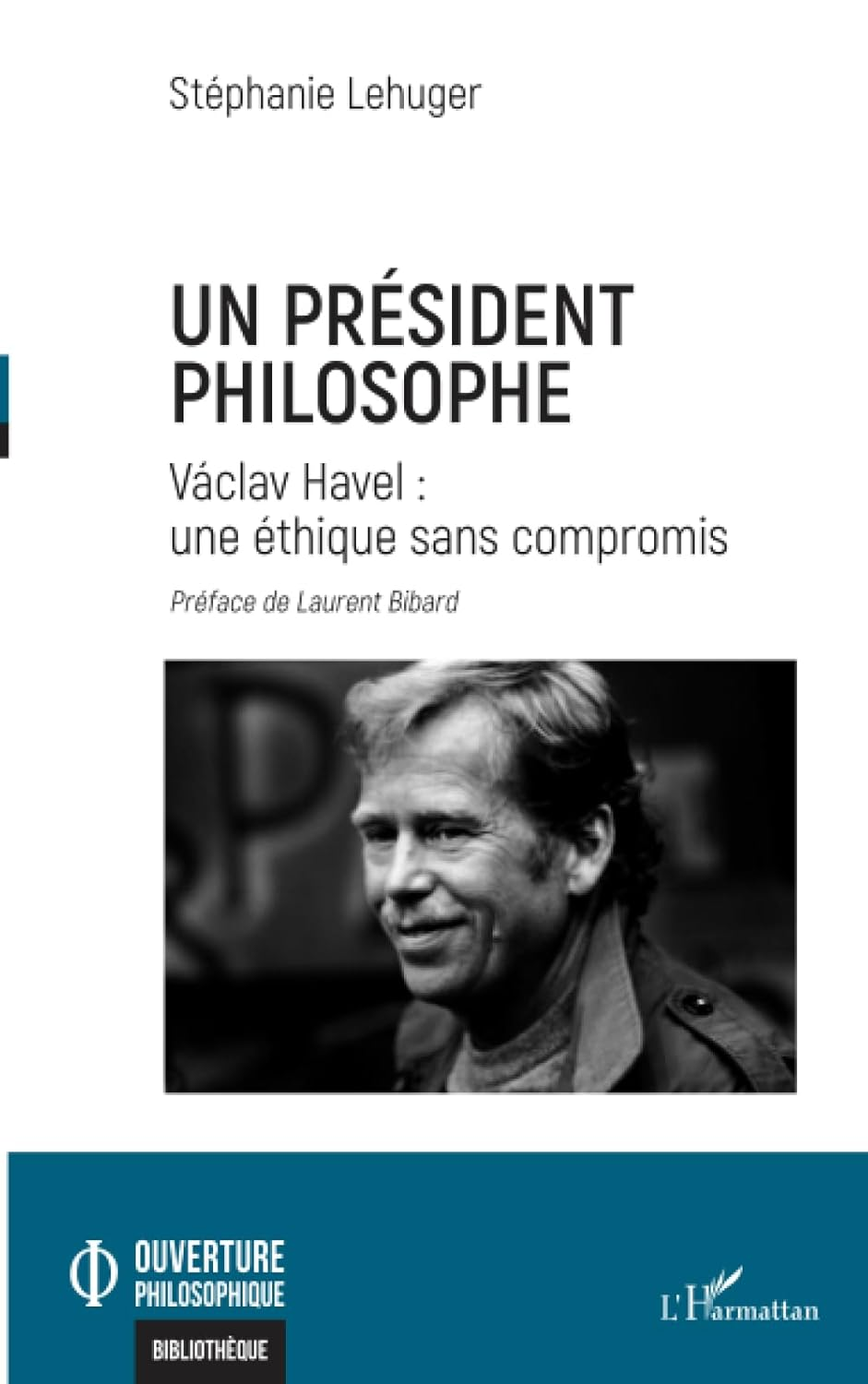
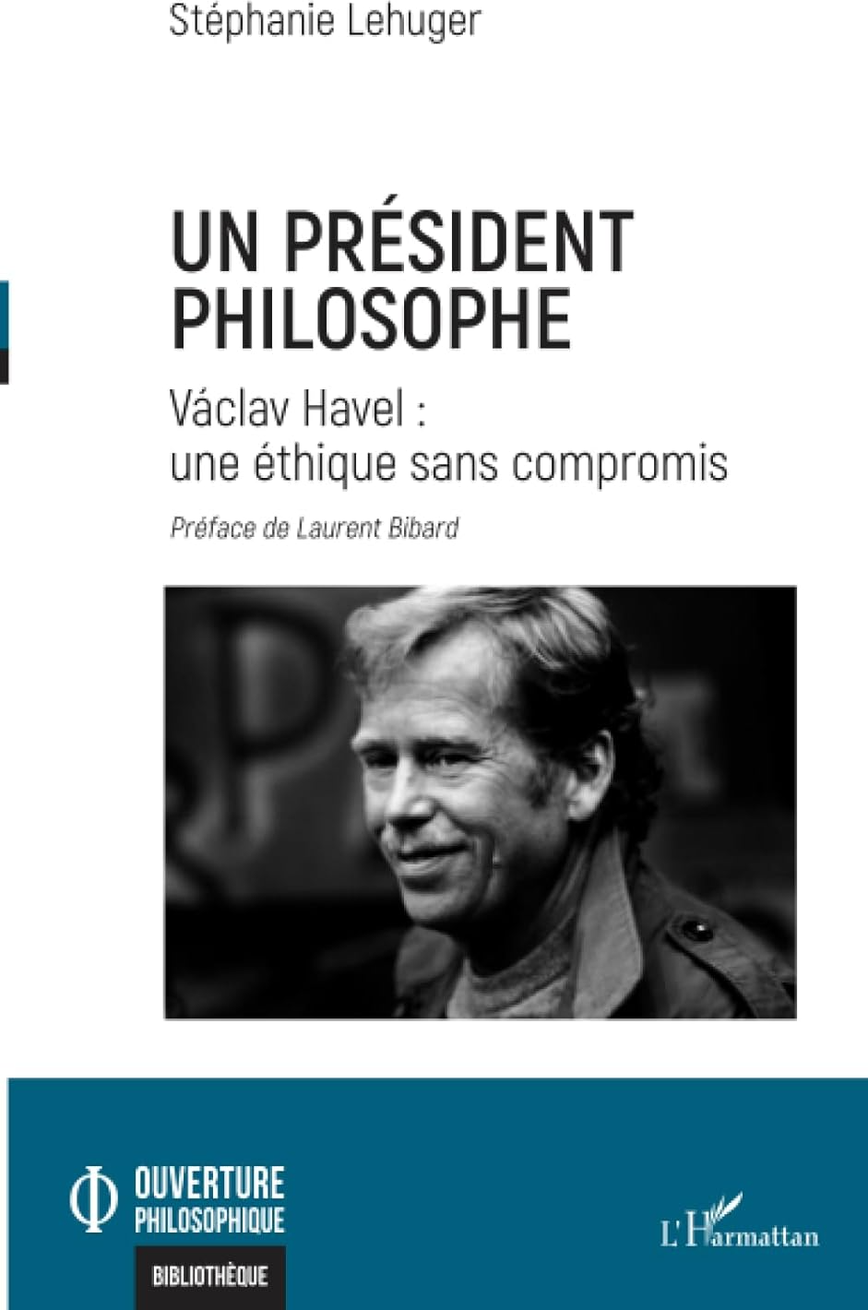
Update website content and assets

diff --git a/index.html b/index.html
@@ -87,16 +87,14 @@
       <!-- hero -->
       <div class="r-hero r-tall" style="display:grid; grid-template-columns:minmax(0,1.45fr) minmax(0,1fr); align-items:stretch; min-height:660px; background:#FBEBE0">
         <div class="r-pad" style="padding:58px 44px 54px 56px; display:flex; flex-direction:column; gap:22px; justify-content:center">
-          <div style="display:inline-flex; align-self:flex-start; align-items:stretch; border-radius:12px; overflow:hidden; background:#13383B">
-            <span style="width:5px; background:#B85417; flex:none"></span>
-            <span style="display:flex; flex-direction:column; gap:4px; padding:11px 20px">
-              <span style="font-size:10px; font-weight:700; letter-spacing:.22em; text-transform:uppercase; color:#E39A6B">Women in AI Ethics</span>
-              <span style="font-family:'Plus Jakarta Sans'; font-weight:800; font-size:15px; letter-spacing:-.01em; color:#FFFFFF">Named One of 100 Brilliant Women in AI Ethics</span>
-            </span>
+          <div style="display:flex; align-items:center; gap:12px; align-self:flex-start">
+            <img src="assets/laurel-left.png" alt="" style="height:66px; width:auto; flex:none">
+            <span style="font-family:'Plus Jakarta Sans'; font-weight:800; font-size:15.5px; line-height:1.3; letter-spacing:-.01em; color:#13383B; text-align:center; max-width:14em">Named among the 100 Brilliant Women in AI Ethics</span>
+            <img src="assets/laurel-right.png" alt="" style="height:66px; width:auto; flex:none">
           </div>
           <h1 class="r-h1" style="margin:0; font-family:'Plus Jakarta Sans'; font-weight:800; font-size:68px; line-height:.96; letter-spacing:-.035em; color:#13383B">I build AI for social impact — and I shape the ethics behind it.</h1>
           <p style="margin:0; font-family:'Plus Jakarta Sans'; font-weight:700; font-size:23px; line-height:1.32; letter-spacing:-.015em; color:#13383B; opacity:.82; max-width:26em; text-wrap:balance">Founding-team member at four startups, published philosopher, and keynote speaker.</p>
-          <p style="margin:0; font-size:18px; line-height:1.6; color:#3D6467; max-width:38em; text-wrap:pretty">A decade launching and scaling AI in high-growth tech — from AI-powered public services at Bayes Impact to Rogervoice's US launch, where AI captions calls in real time so deaf and hard-of-hearing people can use the phone like anyone else.</p>
+          <p style="margin:0; font-size:18px; line-height:1.6; color:#3D6467; max-width:38em; text-wrap:pretty">A decade launching and scaling AI in high-growth tech — most recently Rogervoice's US launch, where AI captions calls in real time so deaf and hard-of-hearing people can use the phone like anyone else.</p>
           <div style="display:flex; gap:10px; flex-wrap:wrap">
             <a class="h2" href="https://podcasts.apple.com/us/podcast/the-french-philosopher/id1543657106" target="_blank" rel="noopener" style="display:flex; align-items:center; justify-content:center; height:54px; padding:0 32px; border-radius:100px; background:#13383B; color:#FBEBE0; font-size:14px; font-weight:700; letter-spacing:.12em; text-transform:uppercase; text-decoration:none; box-shadow:0 2px 8px rgba(19,56,59,.18)">Follow the podcast</a>
             <a class="h3" href="https://www.linkedin.com/newsletters/the-french-philosopher-7216970073071104001/" target="_blank" rel="noopener" style="display:flex; align-items:center; justify-content:center; height:54px; padding:0 28px; border-radius:100px; border:1.5px solid rgba(19,56,59,.35); color:#13383B; font-size:14px; font-weight:700; letter-spacing:.12em; text-transform:uppercase; text-decoration:none">Subscribe to the newsletter</a>
@@ -110,16 +108,16 @@
       <!-- credential band -->
       <div style="display:flex; align-items:stretch; background:#FAFBFC; border-bottom:1px solid #DCE2E4">
         <div style="flex:1; display:flex; flex-wrap:wrap; align-items:center; justify-content:center; gap:20px 40px; padding:26px 44px">
-          <img src="./assets/logos/un.svg" alt="United Nations" style="height:50px; width:auto; max-width:170px; object-fit:contain; filter:grayscale(1) brightness(.42) contrast(1.25); mix-blend-mode:multiply; opacity:.82">
-          <img src="./assets/logos/ec.svg" alt="European Commission" style="height:60px; width:auto; max-width:170px; object-fit:contain; filter:grayscale(1) brightness(.42) contrast(1.25); mix-blend-mode:multiply; opacity:.82">
+          <img src="./assets/logos/un.png" alt="United Nations" style="height:58px; width:auto; max-width:170px; object-fit:contain; filter:grayscale(1) brightness(.42) contrast(1.25); mix-blend-mode:multiply; opacity:.82">
+          <img src="./assets/logos/ec.svg" alt="European Commission" style="height:76px; width:auto; max-width:170px; object-fit:contain; filter:grayscale(1) brightness(.42) contrast(1.25); mix-blend-mode:multiply; opacity:.82">
           <img src="./assets/logos/wfp.png" alt="World Food Programme" style="height:66px; width:auto; max-width:170px; object-fit:contain; filter:grayscale(1) brightness(.42) contrast(1.25); mix-blend-mode:multiply; opacity:.82">
           <img src="./assets/logos/wharton-trim.png" alt="The Wharton School, University of Pennsylvania" style="height:34px; width:auto; max-width:170px; object-fit:contain; filter:grayscale(1) brightness(.42) contrast(1.25); mix-blend-mode:multiply; opacity:.82">
-          <img src="./assets/logos/yc.png" alt="Y Combinator" style="height:30px; width:auto; max-width:170px; object-fit:contain; filter:grayscale(1) brightness(.42) contrast(1.25); mix-blend-mode:multiply; opacity:.82">
           <img src="./assets/logos/essec.svg" alt="ESSEC Business School" style="height:28px; width:auto; max-width:170px; object-fit:contain; filter:grayscale(1) brightness(.42) contrast(1.25); mix-blend-mode:multiply; opacity:.82">
           <img src="./assets/logos/ena.svg" alt="ENA" style="height:30px; width:auto; max-width:170px; object-fit:contain; filter:grayscale(1) brightness(.42) contrast(1.25); mix-blend-mode:multiply; opacity:.82">
           <img src="./assets/logos/ecole42.svg" alt="École 42" style="height:26px; width:auto; max-width:170px; object-fit:contain; filter:grayscale(1) brightness(.42) contrast(1.25); mix-blend-mode:multiply; opacity:.82">
-          <img src="./assets/logos/rogervoice-mark.png" alt="Rogervoice" style="height:52px; width:auto; max-width:170px; object-fit:contain; filter:grayscale(1) brightness(.42) contrast(1.25); mix-blend-mode:multiply; opacity:.82">
           <img src="./assets/logos/bayes.svg" alt="Bayes Impact" style="height:28px; width:auto; max-width:170px; object-fit:contain; filter:grayscale(1) brightness(.42) contrast(1.25); mix-blend-mode:multiply; opacity:.82">
+          <img src="./assets/logos/rogervoice-mark.png" alt="Rogervoice" style="height:52px; width:auto; max-width:170px; object-fit:contain; filter:grayscale(1) brightness(.42) contrast(1.25); mix-blend-mode:multiply; opacity:.82">
+          <img src="./assets/logos/yc.png" alt="Y Combinator" style="height:30px; width:auto; max-width:170px; object-fit:contain; filter:grayscale(1) brightness(.42) contrast(1.25); mix-blend-mode:multiply; opacity:.82">
         </div>
       </div>
 
@@ -127,53 +125,50 @@
       <div class="r-pad" id="built" style="padding:56px 56px 52px; display:flex; flex-direction:column; gap:38px">
         <div class="r-row" style="display:flex; align-items:flex-end; justify-content:space-between; gap:48px">
           <h2 class="r-h2" style="margin:0; font-family:'Plus Jakarta Sans'; font-weight:800; font-size:38px; line-height:1.05; letter-spacing:-.03em; color:#13383B; max-width:24em; text-wrap:balance">I don't just think about responsible AI — <span style="color:#B85417">I build with it.</span></h2>
-          <span style="font-size:11px; font-weight:700; letter-spacing:.18em; text-transform:uppercase; color:#8FA6A8; flex:none; padding-bottom:10px">Career Path</span>
+          <span style="font-size:11px; font-weight:700; letter-spacing:.18em; text-transform:uppercase; color:#8FA6A8; flex:none; padding-bottom:10px; line-height:1.7; text-align:right">AI for good<br>4× startup founding team</span>
         </div>
 
-        <div class="r-3" style="display:grid; grid-template-columns:repeat(3, 1fr); gap:0; border-top:2px solid #13383B">
-          <div style="padding:26px 30px 26px 0; border-right:1px solid #DCE2E4; display:flex; flex-direction:column; gap:22px">
-            <span style="font-size:11px; font-weight:700; letter-spacing:.18em; text-transform:uppercase; color:#B85417">AI for good</span>
+        <div class="r-3" style="display:grid; grid-template-columns:repeat(3, 1fr); gap:0 44px; border-top:2px solid #13383B">
+          <div style="padding:26px 0 0; display:flex; flex-direction:column; gap:22px">
             <div style="display:flex; flex-direction:column; gap:7px">
               <span style="font-family:'Plus Jakarta Sans'; font-weight:800; font-size:17px; line-height:1.2; color:#13383B">Rogervoice — Country Manager, US</span>
-              <span style="font-size:14.5px; line-height:1.5; color:#13383B">Took an AI captioning app for deaf and hard-of-hearing people to FCC certification and the <strong>highest rating of any certified US provider</strong> — past <strong>12 million captioned calls</strong>.</span>
+              <span style="font-size:14.5px; line-height:1.5; color:#13383B">Defined the US go-to-market strategy and <strong>built the US operation and team</strong> for an AI captioning app for deaf and hard-of-hearing people — <strong>more than tripling annual revenue in the first year</strong>.</span>
             </div>
             <div style="display:flex; flex-direction:column; gap:7px">
-              <span style="font-family:'Plus Jakarta Sans'; font-weight:800; font-size:17px; line-height:1.2; color:#13383B">Bayes Impact — Chief of Staff</span>
-              <span style="font-size:14.5px; line-height:1.5; color:#13383B">Founding team of an AI career coach for jobseekers — <strong>laureate of La France s'engage</strong>, the award presented by President Hollande.</span>
-            </div>
-            <div style="display:flex; flex-direction:column; gap:7px">
-              <span style="font-family:'Plus Jakarta Sans'; font-weight:800; font-size:17px; line-height:1.2; color:#13383B">European Commission — AI Expert Evaluator</span>
-              <span style="font-size:14.5px; line-height:1.5; color:#13383B">Sat on the panel deciding which <strong>deep-tech and AI projects Europe funds</strong> for the common good.</span>
-            </div>
-          </div>
-          <div style="padding:26px 30px; border-right:1px solid #DCE2E4; display:flex; flex-direction:column; gap:22px">
-            <span style="font-size:11px; font-weight:700; letter-spacing:.18em; text-transform:uppercase; color:#B85417">Startups — 4× founding team</span>
-            <div style="display:flex; flex-direction:column; gap:7px">
-              <span style="font-family:'Plus Jakarta Sans'; font-weight:800; font-size:17px; line-height:1.2; color:#13383B">Actiondesk — Head of Operations &amp; Growth</span>
+              <span style="font-family:'Plus Jakarta Sans'; font-weight:800; font-size:17px; line-height:1.2; color:#13383B">Actiondesk — Head of Operations &amp; Growth (Founding Team)</span>
               <span style="font-size:14.5px; line-height:1.5; color:#13383B">Built US operations from the ground up — through <strong>Y Combinator</strong>, a <strong>$4M raise</strong>, and an <strong>acquisition by Datadog</strong>.</span>
             </div>
             <div style="display:flex; flex-direction:column; gap:7px">
-              <span style="font-family:'Plus Jakarta Sans'; font-weight:800; font-size:17px; line-height:1.2; color:#13383B">Touch &amp; Sell — Chief Product Officer</span>
-              <span style="font-size:14.5px; line-height:1.5; color:#13383B">Founding team of a sales-enablement product that landed on <strong>Deloitte's Technology Fast 50</strong>.</span>
-            </div>
-            <div style="display:flex; flex-direction:column; gap:7px">
-              <span style="font-family:'Plus Jakarta Sans'; font-weight:800; font-size:17px; line-height:1.2; color:#13383B">Master Art Index — Chief of Staff &amp; AI Strategy Lead</span>
-              <span style="font-size:14.5px; line-height:1.5; color:#13383B">Founding team, <strong>defining how AI is applied</strong> to a market that had never had a price index.</span>
-            </div>
-          </div>
-          <div style="padding:26px 0 26px 30px; display:flex; flex-direction:column; gap:22px">
-            <span style="font-size:11px; font-weight:700; letter-spacing:.18em; text-transform:uppercase; color:#B85417">Public interest</span>
-            <div style="display:flex; flex-direction:column; gap:7px">
               <span style="font-family:'Plus Jakarta Sans'; font-weight:800; font-size:17px; line-height:1.2; color:#13383B">United Nations — New York</span>
               <span style="font-size:14.5px; line-height:1.5; color:#13383B">Office of the <strong>Under-Secretary-General for Internal Oversight Services</strong> — the UN's own watchdog.</span>
+            </div>
+          </div>
+          <div style="padding:26px 0 0; display:flex; flex-direction:column; gap:22px">
+            <div style="display:flex; flex-direction:column; gap:7px">
+              <span style="font-family:'Plus Jakarta Sans'; font-weight:800; font-size:17px; line-height:1.2; color:#13383B">Bayes Impact — Chief of Staff (Founding Team)</span>
+              <span style="font-size:14.5px; line-height:1.5; color:#13383B">Y Combinator-backed AI career coach for jobseekers — <strong>built the French entity operations from zero</strong>. <strong>Laureate of La France s'engage</strong>, awarded personally by French President Hollande himself.</span>
+            </div>
+            <div style="display:flex; flex-direction:column; gap:7px">
+              <span style="font-family:'Plus Jakarta Sans'; font-weight:800; font-size:17px; line-height:1.2; color:#13383B">European Commission — AI Expert Evaluator</span>
+              <span style="font-size:14.5px; line-height:1.5; color:#13383B">Evaluated <strong>deep-tech and AI projects seeking Europe funds</strong>.</span>
             </div>
             <div style="display:flex; flex-direction:column; gap:7px">
               <span style="font-family:'Plus Jakarta Sans'; font-weight:800; font-size:17px; line-height:1.2; color:#13383B">United Nations — Rome</span>
               <span style="font-size:14.5px; line-height:1.5; color:#13383B"><strong>World Food Programme</strong>, the world's largest humanitarian organisation.</span>
             </div>
+          </div>
+          <div style="padding:26px 0 0; display:flex; flex-direction:column; gap:22px">
             <div style="display:flex; flex-direction:column; gap:7px">
-              <span style="font-family:'Plus Jakarta Sans'; font-weight:800; font-size:17px; line-height:1.2; color:#13383B">Unis-Cité</span>
-              <span style="font-size:14.5px; line-height:1.5; color:#13383B">The organisation that <strong>pioneered France's national civic service</strong>.</span>
+              <span style="font-family:'Plus Jakarta Sans'; font-weight:800; font-size:17px; line-height:1.2; color:#13383B">Master Art Index — Chief of Staff &amp; AI Strategy Lead (Founding Team)</span>
+              <span style="font-size:14.5px; line-height:1.5; color:#13383B">Took an AI art-valuation platform <strong>from vision to shipped product</strong>, recruiting the founding team.</span>
+            </div>
+            <div style="display:flex; flex-direction:column; gap:7px">
+              <span style="font-family:'Plus Jakarta Sans'; font-weight:800; font-size:17px; line-height:1.2; color:#13383B">Touch &amp; Sell — Chief Product Officer (Founding Team)</span>
+              <span style="font-size:14.5px; line-height:1.5; color:#13383B"><strong>Recruited and led the engineering and customer-success organisations</strong>, CTO included, for a product that landed on <strong>Deloitte's Technology Fast 50</strong>.</span>
+            </div>
+            <div style="display:flex; flex-direction:column; gap:7px">
+              <span style="font-family:'Plus Jakarta Sans'; font-weight:800; font-size:17px; line-height:1.2; color:#13383B">Unis-Cité — Head of Strategy &amp; Operations</span>
+              <span style="font-size:14.5px; line-height:1.5; color:#13383B">Architected and scaled a <strong>$5.5M portfolio of social-impact programmes</strong> for the NGO that <strong>pioneered France's national civic service</strong>.</span>
             </div>
           </div>
         </div>
@@ -190,7 +185,7 @@
                 <span style="display:flex; flex-direction:column; gap:5px">
                   <span style="font-size:10.5px; font-weight:700; letter-spacing:.16em; text-transform:uppercase; color:#B85417">Ethics</span>
                   <span style="font-family:'Plus Jakarta Sans'; font-weight:800; font-size:15px; line-height:1.25; color:inherit">Un président philosophe. Václav Havel : une éthique sans compromis</span>
-                  <span style="font-size:12.5px; line-height:1.4; color:#8FA6A8">L'Harmattan — Ouverture philosophique</span>
+                  <span style="font-size:12.5px; line-height:1.4; color:#8FA6A8">L'Harmattan</span>
                 </span>
               </a>
               <a class="h1" href="https://www.morebooks.shop/shop-ui/shop/product/978-613-9-52478-5" target="_blank" rel="noopener" style="display:flex; flex-direction:column; gap:12px; flex:1; min-width:0; text-decoration:none">
@@ -209,11 +204,11 @@
           <h2 style="margin:0; font-family:'Plus Jakarta Sans'; font-weight:800; font-size:26px; letter-spacing:-.02em; color:#13383B">Awards</h2>
           <div style="display:flex; flex-direction:column; gap:9px">
             <div style="display:flex; align-items:baseline; gap:16px; padding:15px 20px; border-radius:15px; background:#FFFFFF; border:1px solid #DCE2E4"><span style="font-family:'Plus Jakarta Sans'; font-weight:800; font-size:14px; color:#B85417; flex:none; width:40px">2025</span><span style="flex:1; display:flex; flex-direction:column; gap:3px"><span style="font-family:'Plus Jakarta Sans'; font-weight:800; font-size:15.5px; line-height:1.25; color:#13383B">100 Brilliant Women in AI Ethics</span><span style="font-size:12.5px; line-height:1.4; color:#5E7B7E">Women in AI Ethics</span></span></div>
-            <div style="display:flex; align-items:baseline; gap:16px; padding:15px 20px; border-radius:15px; background:#FFFFFF; border:1px solid #DCE2E4"><span style="font-family:'Plus Jakarta Sans'; font-weight:800; font-size:14px; color:#B85417; flex:none; width:40px">2023</span><span style="flex:1; display:flex; flex-direction:column; gap:3px"><span style="font-family:'Plus Jakarta Sans'; font-weight:800; font-size:15.5px; line-height:1.25; color:#13383B">Women in Business Awards — winner</span><span style="font-size:12.5px; line-height:1.4; color:#5E7B7E">Globee Business Awards</span></span></div>
-            <div style="display:flex; align-items:baseline; gap:16px; padding:15px 20px; border-radius:15px; background:#FFFFFF; border:1px solid #DCE2E4"><span style="font-family:'Plus Jakarta Sans'; font-weight:800; font-size:14px; color:#B85417; flex:none; width:40px">2016</span><span style="flex:1; display:flex; flex-direction:column; gap:3px"><span style="font-family:'Plus Jakarta Sans'; font-weight:800; font-size:15.5px; line-height:1.25; color:#13383B">La France s'engage — laureate</span><span style="font-size:12.5px; line-height:1.4; color:#5E7B7E">With Bayes Impact · presented by President Hollande</span></span></div>
+            <div style="display:flex; align-items:baseline; gap:16px; padding:15px 20px; border-radius:15px; background:#FFFFFF; border:1px solid #DCE2E4"><span style="font-family:'Plus Jakarta Sans'; font-weight:800; font-size:14px; color:#B85417; flex:none; width:40px">2023</span><span style="flex:1; display:flex; flex-direction:column; gap:3px"><span style="font-family:'Plus Jakarta Sans'; font-weight:800; font-size:15.5px; line-height:1.25; color:#13383B">Women in Business Awards</span><span style="font-size:12.5px; line-height:1.4; color:#5E7B7E">Globee Business Awards</span></span></div>
+            <div style="display:flex; align-items:baseline; gap:16px; padding:15px 20px; border-radius:15px; background:#FFFFFF; border:1px solid #DCE2E4"><span style="font-family:'Plus Jakarta Sans'; font-weight:800; font-size:14px; color:#B85417; flex:none; width:40px">2016</span><span style="flex:1; display:flex; flex-direction:column; gap:3px"><span style="font-family:'Plus Jakarta Sans'; font-weight:800; font-size:15.5px; line-height:1.25; color:#13383B">La France s'engage</span><span style="font-size:12.5px; line-height:1.4; color:#5E7B7E">With Bayes Impact · presented by President Hollande</span></span></div>
             <div style="display:flex; align-items:baseline; gap:16px; padding:15px 20px; border-radius:15px; background:#FFFFFF; border:1px solid #DCE2E4"><span style="font-family:'Plus Jakarta Sans'; font-weight:800; font-size:14px; color:#B85417; flex:none; width:40px">2016</span><span style="flex:1; display:flex; flex-direction:column; gap:3px"><span style="font-family:'Plus Jakarta Sans'; font-weight:800; font-size:15.5px; line-height:1.25; color:#13383B">Publicis90 Prize</span><span style="font-size:12.5px; line-height:1.4; color:#5E7B7E">With Bayes Impact · Viva Technology</span></span></div>
-            <div style="display:flex; align-items:baseline; gap:16px; padding:15px 20px; border-radius:15px; background:#FFFFFF; border:1px solid #DCE2E4"><span style="font-family:'Plus Jakarta Sans'; font-weight:800; font-size:14px; color:#B85417; flex:none; width:40px">2015</span><span style="flex:1; display:flex; flex-direction:column; gap:3px"><span style="font-family:'Plus Jakarta Sans'; font-weight:800; font-size:15.5px; line-height:1.25; color:#13383B">Technology Fast 50 — laureate</span><span style="font-size:12.5px; line-height:1.4; color:#5E7B7E">With Touch &amp; Sell · Deloitte</span></span></div>
-            <div style="display:flex; align-items:baseline; gap:16px; padding:15px 20px; border-radius:15px; background:#FFFFFF; border:1px solid #DCE2E4"><span style="font-family:'Plus Jakarta Sans'; font-weight:800; font-size:14px; color:#B85417; flex:none; width:40px">2015</span><span style="flex:1; display:flex; flex-direction:column; gap:3px"><span style="font-family:'Plus Jakarta Sans'; font-weight:800; font-size:15.5px; line-height:1.25; color:#13383B">Hack the Drone — winner</span><span style="font-size:12.5px; line-height:1.4; color:#5E7B7E">Parrot, Redbird, the French Air Force and Engie</span></span></div>
+            <div style="display:flex; align-items:baseline; gap:16px; padding:15px 20px; border-radius:15px; background:#FFFFFF; border:1px solid #DCE2E4"><span style="font-family:'Plus Jakarta Sans'; font-weight:800; font-size:14px; color:#B85417; flex:none; width:40px">2015</span><span style="flex:1; display:flex; flex-direction:column; gap:3px"><span style="font-family:'Plus Jakarta Sans'; font-weight:800; font-size:15.5px; line-height:1.25; color:#13383B">Technology Fast 50</span><span style="font-size:12.5px; line-height:1.4; color:#5E7B7E">With Touch &amp; Sell · Deloitte</span></span></div>
+            <div style="display:flex; align-items:baseline; gap:16px; padding:15px 20px; border-radius:15px; background:#FFFFFF; border:1px solid #DCE2E4"><span style="font-family:'Plus Jakarta Sans'; font-weight:800; font-size:14px; color:#B85417; flex:none; width:40px">2015</span><span style="flex:1; display:flex; flex-direction:column; gap:3px"><span style="font-family:'Plus Jakarta Sans'; font-weight:800; font-size:15.5px; line-height:1.25; color:#13383B">Hack the Drone</span><span style="font-size:12.5px; line-height:1.4; color:#5E7B7E">Parrot, Redbird, the French Air Force and Engie</span></span></div>
           </div>
         </div>
 
@@ -222,7 +217,7 @@
           <div style="display:flex; flex-direction:column">
             <div style="display:flex; gap:16px; padding:13px 0; border-bottom:1px solid #DCE2E4"><span style="font-size:14.5px; line-height:1.45; color:#3D6467; flex:1">Master of Business Administration (Grande École), Social entrepreneurship</span><span style="font-family:'Plus Jakarta Sans'; font-weight:800; font-size:14.5px; line-height:1.45; color:#13383B; text-align:right">ESSEC</span></div>
             <div style="display:flex; gap:16px; padding:13px 0; border-bottom:1px solid #DCE2E4"><span style="font-size:14.5px; line-height:1.45; color:#3D6467; flex:1">Master of Public Policy and Administration</span><span style="font-family:'Plus Jakarta Sans'; font-weight:800; font-size:14.5px; line-height:1.45; color:#13383B; text-align:right">ENA</span></div>
-            <div style="display:flex; gap:16px; padding:13px 0; border-bottom:1px solid #DCE2E4"><span style="font-size:14.5px; line-height:1.45; color:#3D6467; flex:1">Master of Philosophy</span><span style="font-family:'Plus Jakarta Sans'; font-weight:800; font-size:14.5px; line-height:1.45; color:#13383B; text-align:right">Université de Reims</span></div>
+            <div style="display:flex; gap:16px; padding:13px 0; border-bottom:1px solid #DCE2E4"><span style="font-size:14.5px; line-height:1.45; color:#3D6467; flex:1">Master of Philosophy (Valedictorian)</span><span style="font-family:'Plus Jakarta Sans'; font-weight:800; font-size:14.5px; line-height:1.45; color:#13383B; text-align:right">Université de Reims</span></div>
             <div style="display:flex; gap:16px; padding:13px 0; border-bottom:1px solid #DCE2E4"><span style="font-size:14.5px; line-height:1.45; color:#3D6467; flex:1">Computer science</span><span style="font-family:'Plus Jakarta Sans'; font-weight:800; font-size:14.5px; line-height:1.45; color:#13383B; text-align:right">École 42</span></div>
             <div style="display:flex; gap:16px; padding:13px 0; border-bottom:1px solid #DCE2E4"><span style="font-size:14.5px; line-height:1.45; color:#3D6467; flex:1">Finance</span><span style="font-family:'Plus Jakarta Sans'; font-weight:800; font-size:14.5px; line-height:1.45; color:#13383B; text-align:right">Boston University</span></div>
           </div>
@@ -238,8 +233,15 @@
       <div class="r-pad" id="media" style="padding:52px 56px 0; display:flex; flex-direction:column; gap:24px">
         <div class="r-row" style="display:flex; align-items:baseline; justify-content:space-between; gap:20px">
           <h2 class="r-h2" style="margin:0; font-family:'Plus Jakarta Sans'; font-weight:800; font-size:38px; line-height:1.05; letter-spacing:-.03em; color:#13383B">Watch selected interventions</h2>
-          <span style="font-size:12px; font-weight:600; letter-spacing:.14em; text-transform:uppercase; color:#8FA6A8">10 recordings</span>
+          <span style="font-size:12px; font-weight:600; letter-spacing:.14em; text-transform:uppercase; color:#8FA6A8">11 recordings</span>
         </div>
+        <div style="display:flex; flex-direction:column; gap:10px">
+          <div style="position:relative; width:100%; aspect-ratio:16/9; border-radius:15px; overflow:hidden; background:#13383B; box-shadow:0 8px 24px rgba(19,56,59,.14)">
+            <iframe src="https://www.youtube-nocookie.com/embed/7ar2dhMF3DY?rel=0" title="Stephanie Lehuger — speaker reel" allow="accelerometer; autoplay; clipboard-write; encrypted-media; gyroscope; picture-in-picture" allowfullscreen loading="lazy" referrerpolicy="strict-origin-when-cross-origin" style="position:absolute; inset:0; width:100%; height:100%; border:0"></iframe>
+          </div>
+          <span style="font-size:12px; font-weight:700; letter-spacing:.16em; text-transform:uppercase; color:#B85417">Speaker reel</span>
+        </div>
+        <span style="font-size:12px; font-weight:600; letter-spacing:.14em; text-transform:uppercase; color:#8FA6A8">More interventions</span>
         <div class="r-5" style="display:grid; grid-template-columns:repeat(5, 1fr); gap:14px">
           <a href="https://youtu.be/hl9AG4tA7mQ" target="_blank" rel="noopener" class="clip" style="display:block; position:relative; aspect-ratio:16/9; border-radius:15px; overflow:hidden; background:#FBEBE0; box-shadow:0 2px 8px rgba(19,56,59,.10); text-decoration:none">
               <span style="position:absolute; inset:0; background:#FBEBE0 url(https://custom-images.strikinglycdn.com/res/hrscywv4p/image/upload/c_limit,fl_lossy,h_9000,w_1920,f_auto,q_auto/141521/758355_693632.jpeg) center/cover no-repeat"></span>
